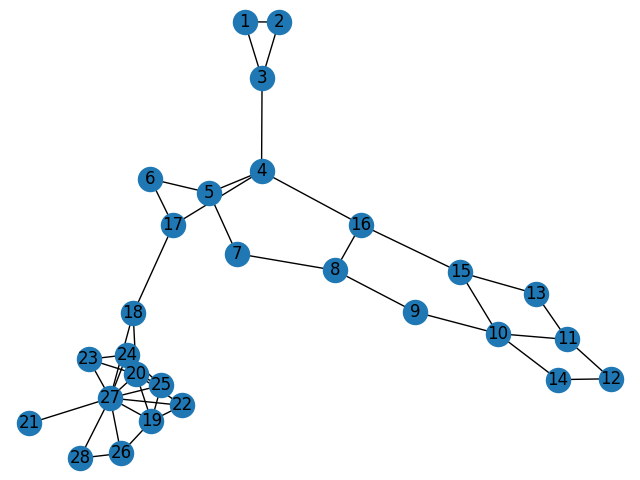
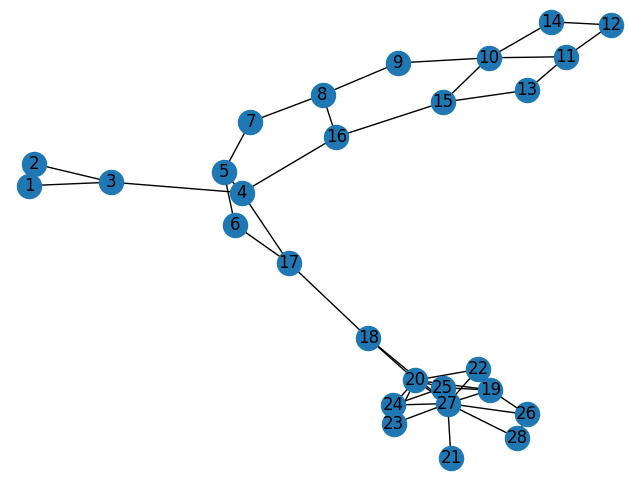
compute coverage with sidetrip and detour

diff --git a/test.py b/test.py
@@ -65,11 +65,11 @@ def checkCoverWithSideAndDetour(primepath , exepath):
                 if exepath[i+j] == primepath[k]: # tour directly
                     j += 1
                     k += 1
-                elif primepath[k-1] in exepath[i+j:]: # tour with sidetrip
-                    j += exepath[i+j:].index(primepath[k-1])+1
                 elif primepath[k] in exepath[i+j:]: # tour with detour
                     j += exepath[i+j:].index(primepath[k])
                     k += 1
+                elif primepath[k-1] in exepath[i+j:]: # tour with sidetrip
+                    j += exepath[i+j:].index(primepath[k-1])+1
                 else:
                     break
             if k == prime_length:
@@ -114,18 +114,18 @@ walker.walk(cfg_listener, pars_tree)
 #compute primepaths
 function_prime_paths = {}
 function_logs = {}
-i = 1
-while True:
+functions_json = open(cfg_path + '/functions.json', 'r')
+function_dict = json.load(functions_json)
+for f_code in function_dict:
     try:
-        cfg_file = open(cfg_path + '/' + str(i) + '.txt', 'r')
+        cfg_file = open(cfg_path + '/' + f_code + '.txt', 'r')
         cfg = Graph(cfg_file)
         cfg.computePrimePaths()
         for j in range(len(cfg.primePaths)):
             print(j+1 , cfg.primePaths[j])
-        function_prime_paths[i] = cfg.primePaths
-        i += 1
+        function_prime_paths[f_code] = cfg.primePaths
     except Exception as e:
-        break
+        pass
 primepaths_json = open(cfg_path + '/primepaths.json' , 'w')
 json.dump(function_prime_paths , primepaths_json)
 
@@ -136,40 +136,83 @@ instrumented_exe = instrument_path + '\instrumented_source.exe'
 log_file_dir = 'log_file.txt'
 executed_paths = {}
 primepaths_coverage = {}
-i = 1
 os.system("g++ {0} -o {1} -std=c++11".format(instrumented_source , instrumented_exe))
 test_case_files = [test_file for test_file in os.listdir(test_cases_dir)
                   if os.path.isfile(os.path.join(test_cases_dir , test_file))]
+
+side_and_de = 'with sidetrip and detour'
+side = 'with sidetrip'
+detour = 'with detour'
+
+primepaths_coverage[side_and_de] = {}
+primepaths_coverage[side] = {}
+primepaths_coverage[detour] = {}
+
+for f_code in function_dict:
+    executed_paths[f_code] = {}
+    primepaths_coverage[side_and_de][f_code] = {}
+    primepaths_coverage[side][f_code] = {}
+    primepaths_coverage[detour][f_code] = {}
+
 for test_case_file in  test_case_files:
+    for f_code in function_dict:
+        executed_paths[f_code][test_case_file] = list()
+        primepaths_coverage[side_and_de][f_code][test_case_file] = list()
+        primepaths_coverage[side][f_code][test_case_file] = list()
+        primepaths_coverage[detour][f_code][test_case_file] = list()
+
     open(test_cases_dir + test_case_file , 'r')
-    executed_paths[i] = {}
-    primepaths_coverage[i] = {}
     os.system("{0} < {1}".format(instrumented_exe, test_cases_dir + test_case_file))
     log_file = open( log_file_dir , 'r')
     log_lines = log_file.readlines()
     for line in log_lines:
-        f_code , block = (int(x) for x in line.split(' '))
-        try:
-            executed_paths[i][f_code].append(block)
-        except:
-            executed_paths[i][f_code] = [block]
-    print(executed_paths)
-    for j in executed_paths[i]:
-        primepaths_coverage[i][j] = list()
-        primes = function_prime_paths[j]
+        f_code , block = (x for x in line.split(' '))
+        block = int(block)
+        executed_paths[f_code][test_case_file].append(block)
+
+    for f_code in function_dict:
+        primes = function_prime_paths[f_code]
         for path in primes:
-            if checkCoverWithSideAndDetour(path , executed_paths[i][j]):
-                primepaths_coverage[i][j].append(1)
+            #with sidetrip and detour
+            if checkCoverWithSideAndDetour(path , executed_paths[f_code][test_case_file]):
+                primepaths_coverage[side_and_de][f_code][test_case_file].append(1)
             else:
-                primepaths_coverage[i][j].append(0)
-    i += 1
+                primepaths_coverage[side_and_de][f_code][test_case_file].append(0)
+            #with sidetrip
+            if checkCoverWithSidetour(path, executed_paths[f_code][test_case_file]):
+                primepaths_coverage[side][f_code][test_case_file].append(1)
+            else:
+                primepaths_coverage[side][f_code][test_case_file].append(0)
+            #with detour
+            if checkCoverWithDetour(path, executed_paths[f_code][test_case_file]):
+                primepaths_coverage[detour][f_code][test_case_file].append(1)
+            else:
+                primepaths_coverage[detour][f_code][test_case_file].append(0)
 
 percent_coverage = {}
-for testcase in primepaths_coverage:
-    percent_coverage[testcase] = {}
-    for function in primepaths_coverage[testcase]:
-        percent_coverage[testcase][function] = (sum(primepaths_coverage[testcase][function])
-                                                / len(primepaths_coverage[testcase][function])) * 100
+for f_code in function_dict:
+    percent_coverage[side_and_de] = {}
+    percent_coverage[side] = {}
+    percent_coverage[detour] = {}
+    if len(function_prime_paths[f_code]) > 0:
+        total_cover = [0] * len(function_prime_paths[f_code])
+        for testcase in primepaths_coverage[side_and_de][f_code]:
+            total_cover = [x or y for x,y in zip(total_cover,primepaths_coverage[side_and_de][f_code][testcase])]
+        percent_coverage[side_and_de][f_code] = (sum(total_cover) / len(total_cover) * 100)
+
+        total_cover = [0] * len(function_prime_paths[f_code])
+        for testcase in primepaths_coverage[side][f_code]:
+            total_cover = [x or y for x,y in zip(total_cover,primepaths_coverage[side][f_code][testcase])]
+        percent_coverage[side][f_code] = (sum(total_cover) / len(total_cover) * 100)
+
+        total_cover = [0] * len(function_prime_paths[f_code])
+        for testcase in primepaths_coverage[detour][f_code]:
+            total_cover = [x or y for x,y in zip(total_cover,primepaths_coverage[detour][f_code][testcase])]
+        percent_coverage[detour][f_code] = (sum(total_cover) / len(total_cover) * 100)
+    else:
+        percent_coverage[side_and_de][f_code] = 0
+        percent_coverage[side][f_code] = 0
+        percent_coverage[detour][f_code] = 0
 
 exepath_file = open(instrument_path + '/exepaths.json', 'w')
 json.dump(executed_paths, exepath_file)

diff --git a/gen/CFGListener.py b/gen/CFGListener.py
@@ -100,7 +100,7 @@ class CFGInstListener(CPP14_v2Listener):
         self.token_stream_rewriter.insertAfter(ctx.start.tokenIndex, new_code)
 
     def logLine(self):
-        return 'logFile << "' + self.domain_name + ' ' + str(self.block_number) + '" << std::endl'
+        return 'logFile << "' + str(self.domain_name) + ' ' + str(self.block_number) + '" << std::endl'
 
     def addTryJunc(self , Type = 'flow'):
         self.try_junction_stack[-1].append((self.block_number,Type))
@@ -127,7 +127,7 @@ class CFGInstListener(CPP14_v2Listener):
         self.block_number = 0
         self.block_start = 0
         self.block_stop = 0
-        self.domain_name = ""
+        self.domain_name = 0
         self.function_dict = {}
         self.select_junction_stack = []
         self.select_decision_stack = []
@@ -166,7 +166,7 @@ class CFGInstListener(CPP14_v2Listener):
         log_path = self.instrument_path + "log_file.txt"
         new_code = '\n//in the name of allah\n#include <fstream>\nstd::ofstream logFile("log_file.txt");\n\n'
         self.token_stream_rewriter.insertBeforeIndex(ctx.start.tokenIndex, new_code)
-        self.domain_name = '0'
+        self.domain_name = 0
 
     #function
     def enterFunctiondefinition(self, ctx: CPP14_v2Parser.FunctiondefinitionContext):
@@ -174,13 +174,13 @@ class CFGInstListener(CPP14_v2Listener):
         self.final_nodes = set()
         temp = ctx.declarator().getText().replace('~', "destructor")
         function_name = ''.join(c for c in temp if c.isalnum())
-        self.domain_name = str(int(self.domain_name) + 1)
+        self.domain_name += 1
         self.function_dict[self.domain_name] = (function_name , ctx.start.line)
         self.block_dict[self.domain_name] = {
             "Nodes": [],
             "Edges": []
         }
-        self.CFG_file = open(self.cfg_path + self.domain_name + '.txt', 'w')
+        self.CFG_file = open(self.cfg_path + str(self.domain_name) + '.txt', 'w')
 
 
     def enterFunctionbody1(self, ctx:CPP14_v2Parser.Functionbody1Context): #normal function
@@ -676,12 +676,17 @@ class CFGInstListener(CPP14_v2Listener):
         self.CFG_file.write("final nodes:" + final_nodes_str + '\n')
         print(self.block_dict)
         self.CFG_file.close()
-        func_graph = nx.Graph([(s,d,{'type':T}) for s,d,T in self.block_dict[self.domain_name]["Edges"]])
-        nx.draw(func_graph , with_labels=True)
-        plt.savefig(self.cfg_path + self.domain_name + '.png')
+        func_graph = nx.Graph()
+        func_graph.add_nodes_from([n for n,s,e in self.block_dict[self.domain_name]["Nodes"]])
+        func_graph.add_edges_from([(s,d) for s,d,T in self.block_dict[self.domain_name]["Edges"]])
+        edge_labels = {}
+        for s,d,T in self.block_dict[self.domain_name]["Edges"]:
+            edge_labels[(s,d)] = T
+        nx.draw(func_graph , pos=nx.spring_layout(func_graph) , with_labels=True)
+        plt.savefig(self.cfg_path + str(self.domain_name) + '.png')
         plt.close()
 
-        graph_json = open(self.cfg_path + self.domain_name + '.json' , 'w')
+        graph_json = open(self.cfg_path + str(self.domain_name) + '.json' , 'w')
         json.dump(self.block_dict , graph_json)
 
     def exitTranslationunit(self, ctx: CPP14_v2Parser.TranslationunitContext):

diff --git a/graph.py b/graph.py
@@ -27,6 +27,7 @@ class Graph:
         final_line = lines[-1]
         final_nodes = set(int(x) for x in final_line.split(':')[1].split(' '))
         self.finals = final_nodes
+        self.nodes.update(self.finals)
 
     def reachHead(self , path):
         first = path[0]
@@ -63,7 +64,7 @@ class Graph:
             for path in try_paths:
                 if path[0] == path[-1] and len(path) >= 2: #prime path
                     self.primePaths.append(path)
-                elif self.reachEnd(path) and len(path) >= 2:
+                elif self.reachEnd(path):
                     if self.reachHead(path): #prime path
                         self.primePaths.append(path)
                 else: #extendable path
